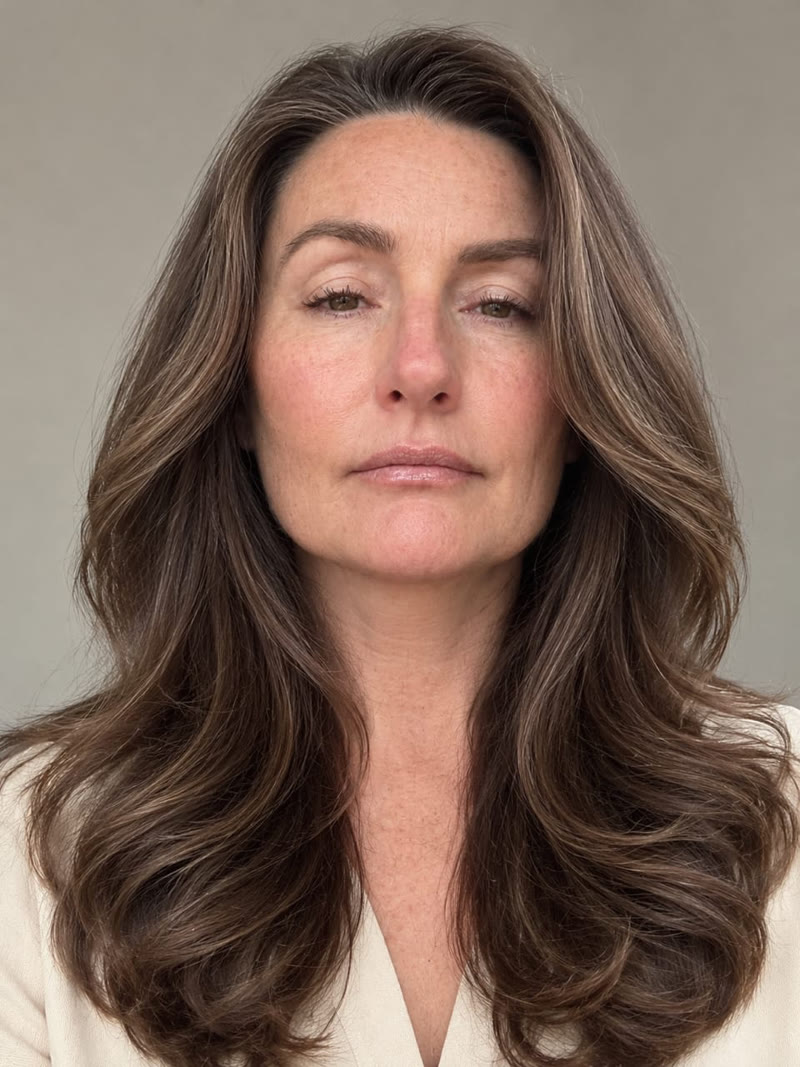
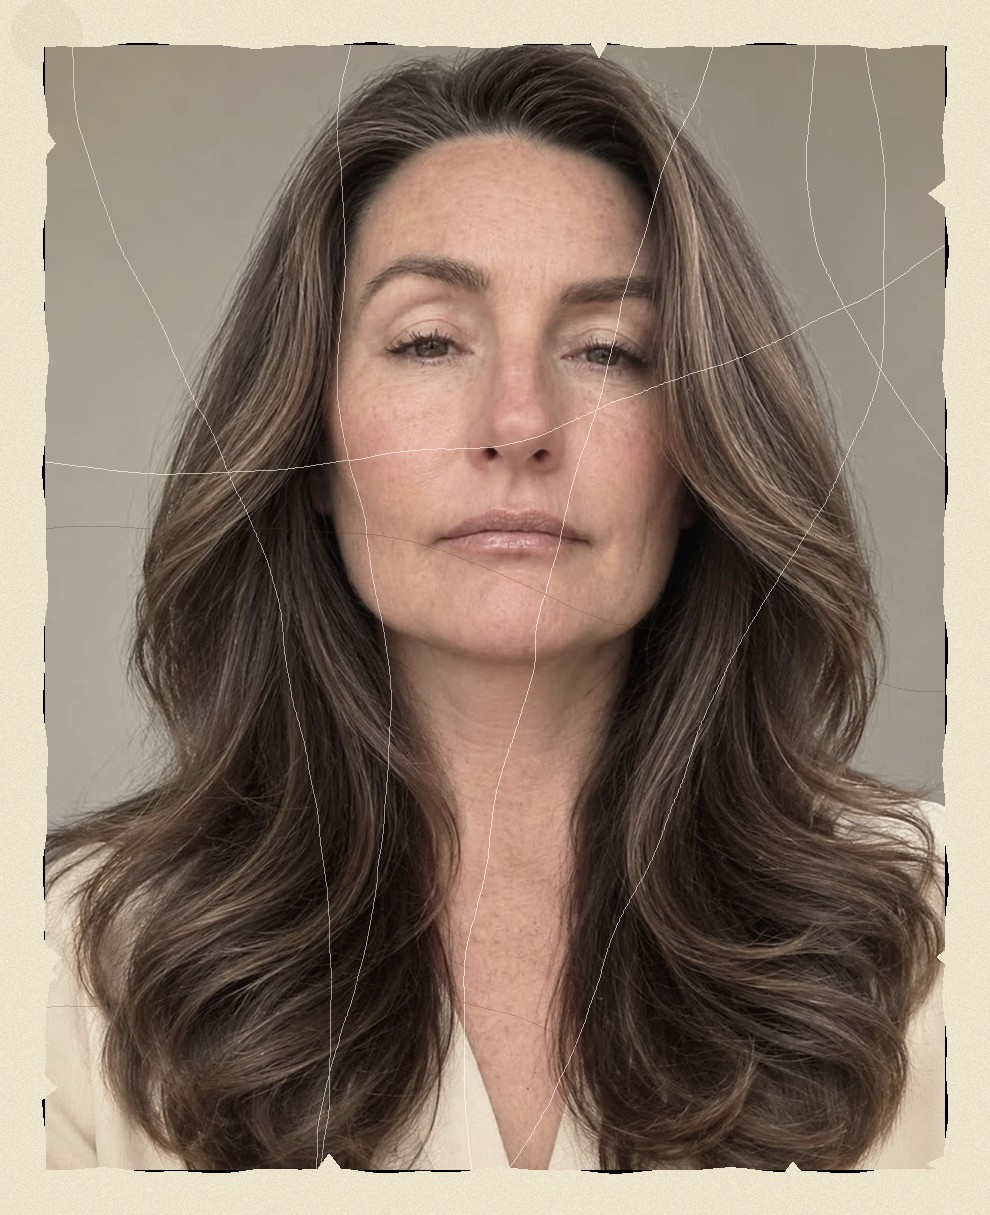
Age the founder portraits and update their bios
The prints are about half the previous size, with a worn border and crease lines over the existing photos, and the bios match the latest copy.

diff --git a/index.html b/index.html
@@ -177,25 +177,25 @@
         <div class="team">
           <article class="person">
             <div class="person-photo">
-              <img src="images/lia.jpg" alt="Portrait of Lia Rozenberg" width="1200" height="912">
+              <img src="images/lia.jpg" alt="Portrait of Lia Rozenberg" width="990" height="1215">
             </div>
             <div class="person-body">
               <h3>Lia Rozenberg</h3>
               <p class="person-role">Founder &amp; Photo Preservation Specialist</p>
               <div class="person-bio">
-                <p>Graceville local and co-founder of Memory Box Brisbane. It began with her own boxes of family photos, albums, and her grandfather's slides.</p>
+                <p>Co-founder, Graceville local, wife and a mother of three, computer science university lecturer and educator with love to art, sketching and colouring, photography, design and organising cluttered spaces.</p>
               </div>
             </div>
           </article>
           <article class="person">
             <div class="person-photo">
-              <img src="images/leigh.jpg" alt="Portrait of Leigh Angus" width="800" height="1067">
+              <img src="images/leigh.jpg" alt="Portrait of Leigh Angus" width="990" height="1215">
             </div>
             <div class="person-body">
               <h3>Leigh Angus</h3>
               <p class="person-role">Founder</p>
               <div class="person-bio">
-                <p>Sherwood local and co-founder of Memory Box Brisbane. She brings 20+ years of enterprise digital transformation to the photos families keep.</p>
+                <p>Co-founder, Sherwood local, wife and a mother of three. Leigh brings 20+ years of enterprise digital transformation to the photos families keep.</p>
               </div>
             </div>
           </article>

diff --git a/css/styles.css b/css/styles.css
@@ -634,14 +634,18 @@ p {
 
 .person-photo {
   position: relative;
-  overflow: hidden;
+  width: 50%;
+  margin: 1.35rem auto 0;
+  overflow: visible;
+  background: transparent;
 }
 
 .person-photo img {
   width: 100%;
-  height: 100%;
-  object-fit: cover;
-  aspect-ratio: 4 / 5;
+  height: auto;
+  object-fit: contain;
+  aspect-ratio: auto;
+  box-shadow: 0 10px 22px rgba(90, 58, 28, 0.16);
 }
 
 .person-tag {
